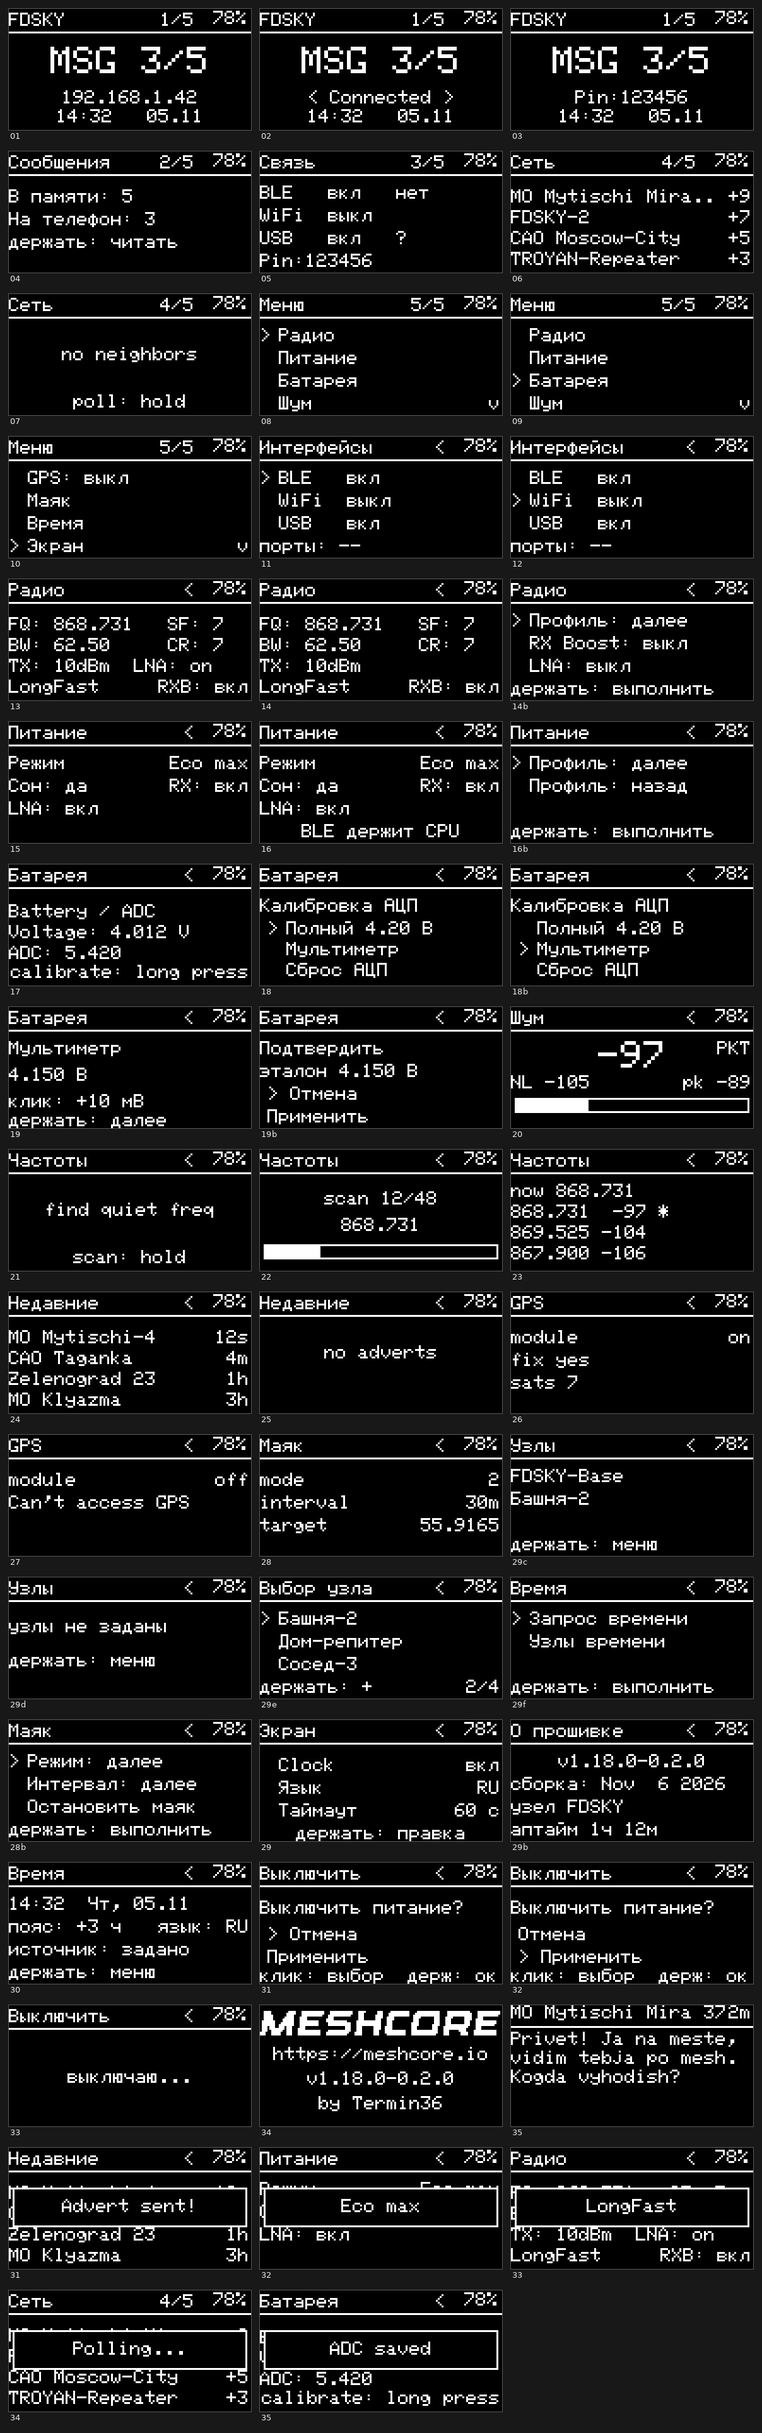
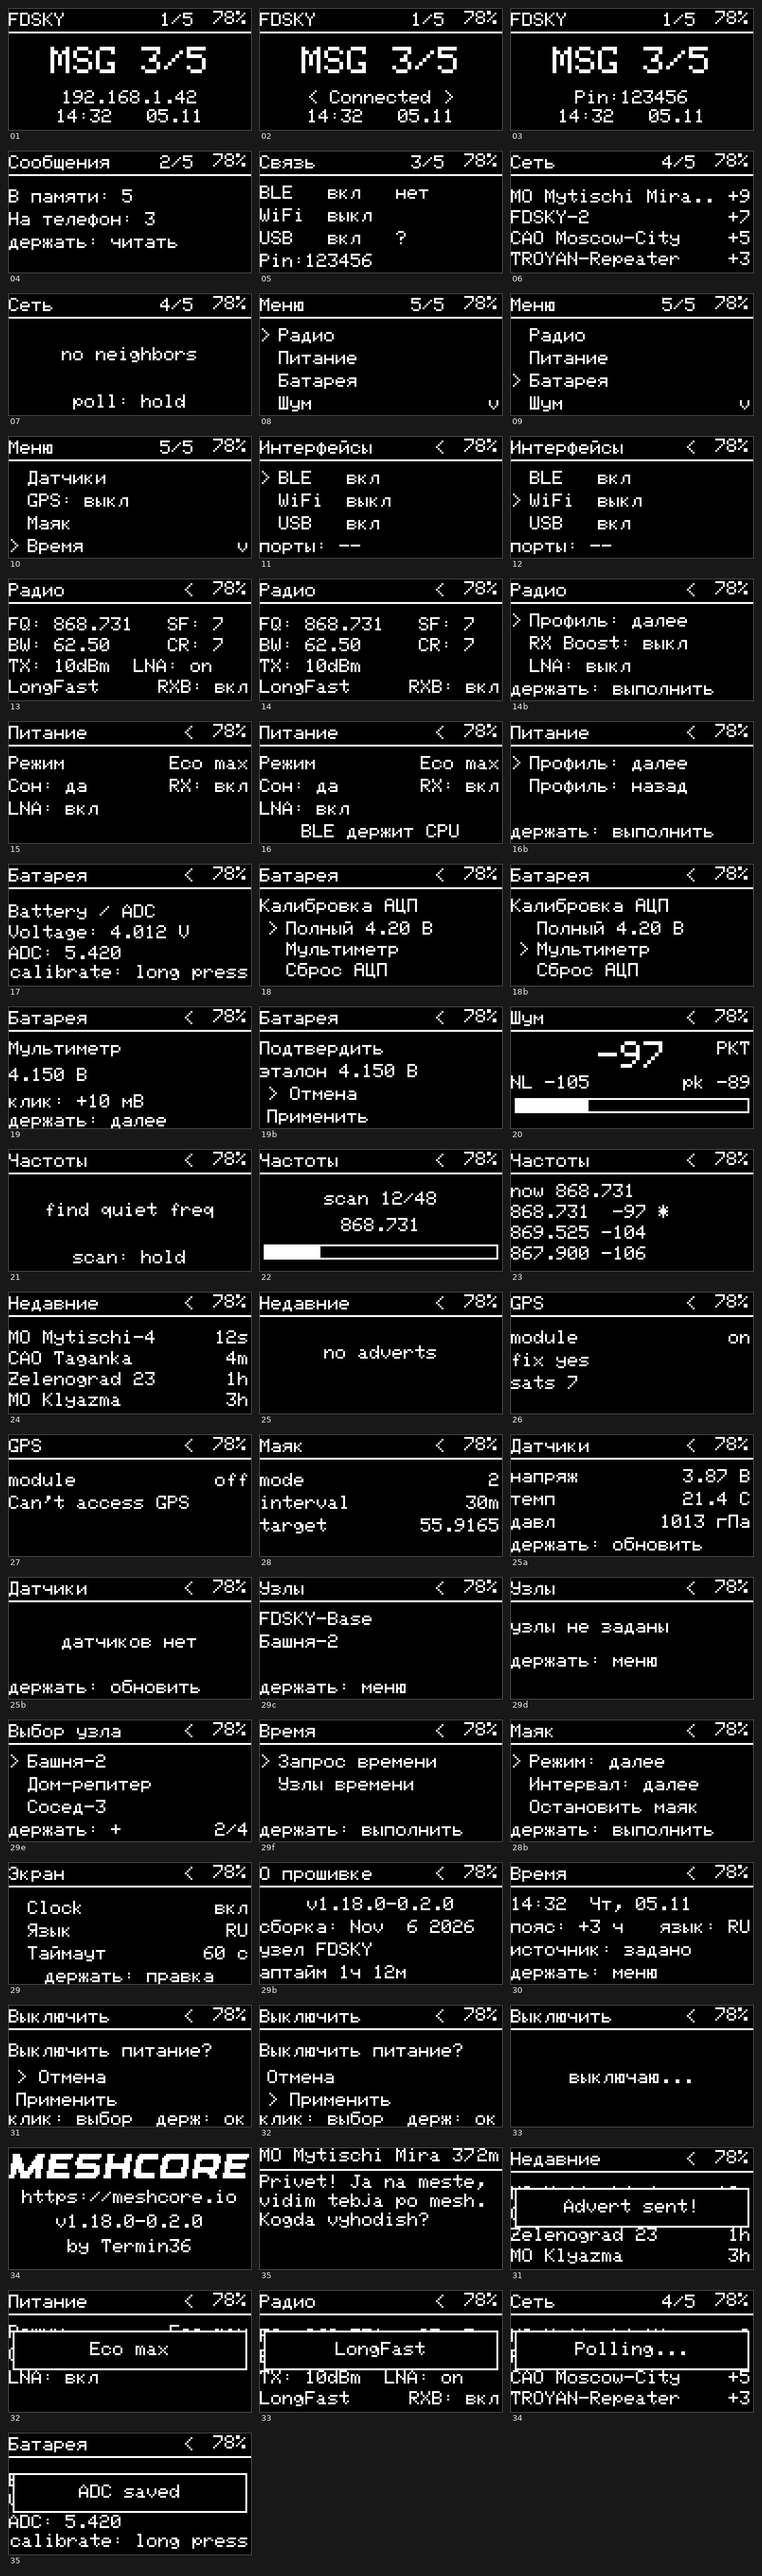
P7: enable the sensors screen on the Heltec V4 companion build
- UI_SENSORS_PAGE=1 for heltec_v4_oled_companion_usb_ble_wifi
- Датчики added to the Меню list (between Недавние and Время)
- hold on Датчики forces a sensor read instead of toggling GPS (this board has
  no GPS, the old handler was a leftover from tracker builds)
- rows translated and given units: напряж/ток/темп/влажн/давл/высота/мощн/GPS
- three rows fit under the header, longer lists scroll with a footer that says
  'список листается'; empty state 'датчиков нет'; footer hint 'держать: обновить'
- USER_GUIDE and mockups updated (52 states)

diff --git a/examples/companion_radio/ui-new/UITask.cpp b/examples/companion_radio/ui-new/UITask.cpp
@@ -469,6 +469,7 @@ private:
   bool sensors_scroll = false;
   int sensors_scroll_offset = 0;
   int next_sensors_refresh = 0;
+  static const int UI_SENSORS_ROWS = 3;   // 3 rows of 12 px fit under the header
 
   void refresh_sensors() {
     if (millis() > next_sensors_refresh) {
@@ -521,6 +522,9 @@ private:
     n++;  // Шум
     n++;  // Частоты
     n++;  // Недавние
+#if UI_SENSORS_PAGE == 1
+    n++;  // Датчики
+#endif
 #if ENV_INCLUDE_GPS == 1
     n++;  // GPS
     n++;  // Маяк
@@ -542,6 +546,9 @@ private:
     if (idx == i++) return HomePage::SCAN;
     if (idx == i++) return HomePage::FSCAN;
     if (idx == i++) return HomePage::RECENT;
+#if UI_SENSORS_PAGE == 1
+    if (idx == i++) return HomePage::SENSORS;
+#endif
 #if ENV_INCLUDE_GPS == 1
     if (idx == i++) return HomePage::GPS;
     if (idx == i++) return HomePage::BEACON;
@@ -596,6 +603,9 @@ private:
       case HomePage::SCAN: return "Шум";
       case HomePage::FSCAN: return "Частоты";
       case HomePage::RECENT: return "Недавние";
+#if UI_SENSORS_PAGE == 1
+      case HomePage::SENSORS: return "Датчики";
+#endif
 #if ENV_INCLUDE_GPS == 1
       case HomePage::GPS: return _task->getGPSState() ? "GPS: вкл" : "GPS: выкл";
       case HomePage::BEACON: return "Маяк";
@@ -1454,7 +1464,7 @@ public:
         r.skipData(type);
       }
 
-      for (int i = 0; i < (sensors_scroll?UI_RECENT_LIST_SIZE:sensors_nb); i++) {
+      for (int i = 0; i < (sensors_scroll?UI_SENSORS_ROWS:sensors_nb); i++) {
         uint8_t channel, type;
         if (!r.readHeader(channel, type)) { // reached end, reset
           r.reset();
@@ -1467,39 +1477,39 @@ public:
           case LPP_GPS: // GPS
             float lat, lon, alt;
             r.readGPS(lat, lon, alt);
-            strcpy(name, "gps"); sprintf(buf, "%.4f %.4f", lat, lon);
+            strcpy(name, "GPS"); sprintf(buf, "%.4f %.4f", lat, lon);
             break;
           case LPP_VOLTAGE:
             r.readVoltage(v);
-            strcpy(name, "voltage"); sprintf(buf, "%6.2f", v);
+            strcpy(name, "напряж"); sprintf(buf, "%5.2f В", v);
             break;
           case LPP_CURRENT:
             r.readCurrent(v);
-            strcpy(name, "current"); sprintf(buf, "%.3f", v);
+            strcpy(name, "ток"); sprintf(buf, "%.2f А", v);
             break;
           case LPP_TEMPERATURE:
             r.readTemperature(v);
-            strcpy(name, "temperature"); sprintf(buf, "%.2f", v);
+            strcpy(name, "темп"); sprintf(buf, "%.1f C", v);
             break;
           case LPP_RELATIVE_HUMIDITY:
             r.readRelativeHumidity(v);
-            strcpy(name, "humidity"); sprintf(buf, "%.2f", v);
+            strcpy(name, "влажн"); sprintf(buf, "%.0f %%", v);
             break;
           case LPP_BAROMETRIC_PRESSURE:
             r.readPressure(v);
-            strcpy(name, "pressure"); sprintf(buf, "%.2f", v);
+            strcpy(name, "давл"); sprintf(buf, "%.0f гПа", v);
             break;
           case LPP_ALTITUDE:
             r.readAltitude(v);
-            strcpy(name, "altitude"); sprintf(buf, "%.0f", v);
+            strcpy(name, "высота"); sprintf(buf, "%.0f м", v);
             break;
           case LPP_POWER:
             r.readPower(v);
-            strcpy(name, "power"); sprintf(buf, "%6.2f", v);
+            strcpy(name, "мощн"); sprintf(buf, "%5.2f Вт", v);
             break;
           default:
             r.skipData(type);
-            strcpy(name, "unk"); sprintf(buf, "");
+            strcpy(name, "?"); sprintf(buf, "");
         }
         display.setCursor(0, y);
         display.setColor(UIColor::secondary_txt);
@@ -1513,6 +1523,12 @@ public:
       }
       if (sensors_scroll) sensors_scroll_offset = (sensors_scroll_offset+1)%sensors_nb;
       else sensors_scroll_offset = 0;
+      if (sensors_nb == 0) {
+        display.setColor(UIColor::secondary_txt);
+        display.drawTextCentered(display.width() / 2, 30, "датчиков нет");
+      }
+      display.setColor(UIColor::secondary_txt);
+      display.drawTextLeftAlign(0, 54, sensors_scroll ? "список листается" : "держать: обновить");
 #endif
     } else if (_page == HomePage::CLOCK_NODES) {
       display.setTextSize(1);
@@ -2072,8 +2088,10 @@ public:
 #endif
 #if UI_SENSORS_PAGE == 1
     if (c == KEY_ENTER && _page == HomePage::SENSORS) {
-      _task->toggleGPS();
-      next_sensors_refresh=0;
+      // read the sensors right now instead of waiting for the 5 s timer
+      sensors_lpp.reset();
+      next_sensors_refresh = 0;
+      sensors_scroll_offset = 0;
       return true;
     }
 #endif

diff --git a/tools/ui_mockups.py b/tools/ui_mockups.py
@@ -269,7 +269,7 @@ def s_messages():
     return img
 
 def s_menu(sel=0):
-    items = ["Радио", "Питание", "Батарея", "Шум", "Частоты", "Недавние",
+    items = ["Радио", "Питание", "Батарея", "Шум", "Частоты", "Недавние", "Датчики",
              "GPS: выкл", "Маяк", "Время", "Экран", "О прошивке", "Выключить"]
     img, px = screen("Меню", 5)
     start = 0
@@ -284,6 +284,18 @@ def s_menu(sel=0):
         draw_text(px, 10, y, items[idx], 1)
     if start + 4 < len(items):
         draw_right(px, 18 + 3 * 12, "v", 1)
+    return img
+
+def s_sensors(rows=None):
+    img, px = screen("Датчики", sub=True)
+    if rows is None:
+        rows = [("напряж", "3.87 В"), ("темп", "21.4 C"), ("давл", "1013 гПа")]
+    if not rows:
+        draw_centered(px, 30, "датчиков нет", 1)
+    for i, (n, v) in enumerate(rows[:3]):
+        draw_text(px, 0, 18 + i * 12, n, 1)
+        draw_right(px, 18 + i * 12, v, 1)
+    draw_text(px, 0, 54, "держать: обновить", 1)
     return img
 
 def s_recent(full=True):
@@ -563,6 +575,8 @@ SCREENS = [
     ("26-sub-gps",                    "Подэкран GPS: включён, есть фикс",                      s_gps(True)),
     ("27-sub-gps-unavailable",        "Подэкран GPS: модуль недоступен",                       s_gps(False)),
     ("28-sub-beacon",                 "Подэкран Маяк: режим, интервал, цель",                  s_beacon()),
+    ("25a-sub-sensors",              "Датчики: напряжение, температура, давление",              s_sensors()),
+    ("25b-sub-sensors-empty",        "Датчики: данных нет",                                   s_sensors([])),
     ("29c-sub-clock-nodes",          "Узлы времени: два доверенных узла",                    s_clock_nodes(["FDSKY-Base", "Башня-2"])),
     ("29d-sub-clock-nodes-empty",    "Узлы времени: не заданы",                              s_clock_nodes([])),
     ("29e-sub-node-picker",          "Выбор контакта для узла времени",                      s_node_picker(["FDSKY-Base", "Башня-2", "Дом-репитер", "Сосед-3"], 1)),

diff --git a/USER_GUIDE.md b/USER_GUIDE.md
@@ -160,6 +160,22 @@ LNA: вкл
 - finished: `now <freq>` and the three quietest channels, the current one marked `*`
 - **Long press** → start the scan
 
+### Датчики (SENSORS) — подэкран меню
+```
+напряж                   3.87 В
+темп                      21.4 C
+давл                    1013 гПа
+держать: обновить
+```
+- live telemetry read from the board's own sensors plus everything received from
+  contacts (CayenneLPP): `напряж`, `ток`, `темп`, `влажн`, `давл`, `высота`, `мощн`, `GPS`
+- three rows at a time; a longer list scrolls by one row every 5 s and the footer says
+  `список листается` instead of `держать: обновить`
+- values refresh every 5 s while the screen is open; **long press** forces a read now
+- `датчиков нет` when nothing but the board battery answers
+- this page is enabled per environment (`-D UI_SENSORS_PAGE=1`); the Heltec V4 companion
+  build has it compiled in
+
 ### Интерфейсы (CONNECTIONS) — подэкран «Связи»
 ```
 >BLE   ON

diff --git a/docs/ui-mockups/README.md b/docs/ui-mockups/README.md
@@ -41,6 +41,8 @@
 | `26-sub-gps.png` | sub-gps | Подэкран GPS: включён, есть фикс |
 | `27-sub-gps-unavailable.png` | sub-gps-unavailable | Подэкран GPS: модуль недоступен |
 | `28-sub-beacon.png` | sub-beacon | Подэкран Маяк: режим, интервал, цель |
+| `25a-sub-sensors.png` | sub-sensors | Датчики: напряжение, температура, давление |
+| `25b-sub-sensors-empty.png` | sub-sensors-empty | Датчики: данных нет |
 | `29c-sub-clock-nodes.png` | sub-clock-nodes | Узлы времени: два доверенных узла |
 | `29d-sub-clock-nodes-empty.png` | sub-clock-nodes-empty | Узлы времени: не заданы |
 | `29e-sub-node-picker.png` | sub-node-picker | Выбор контакта для узла времени |
